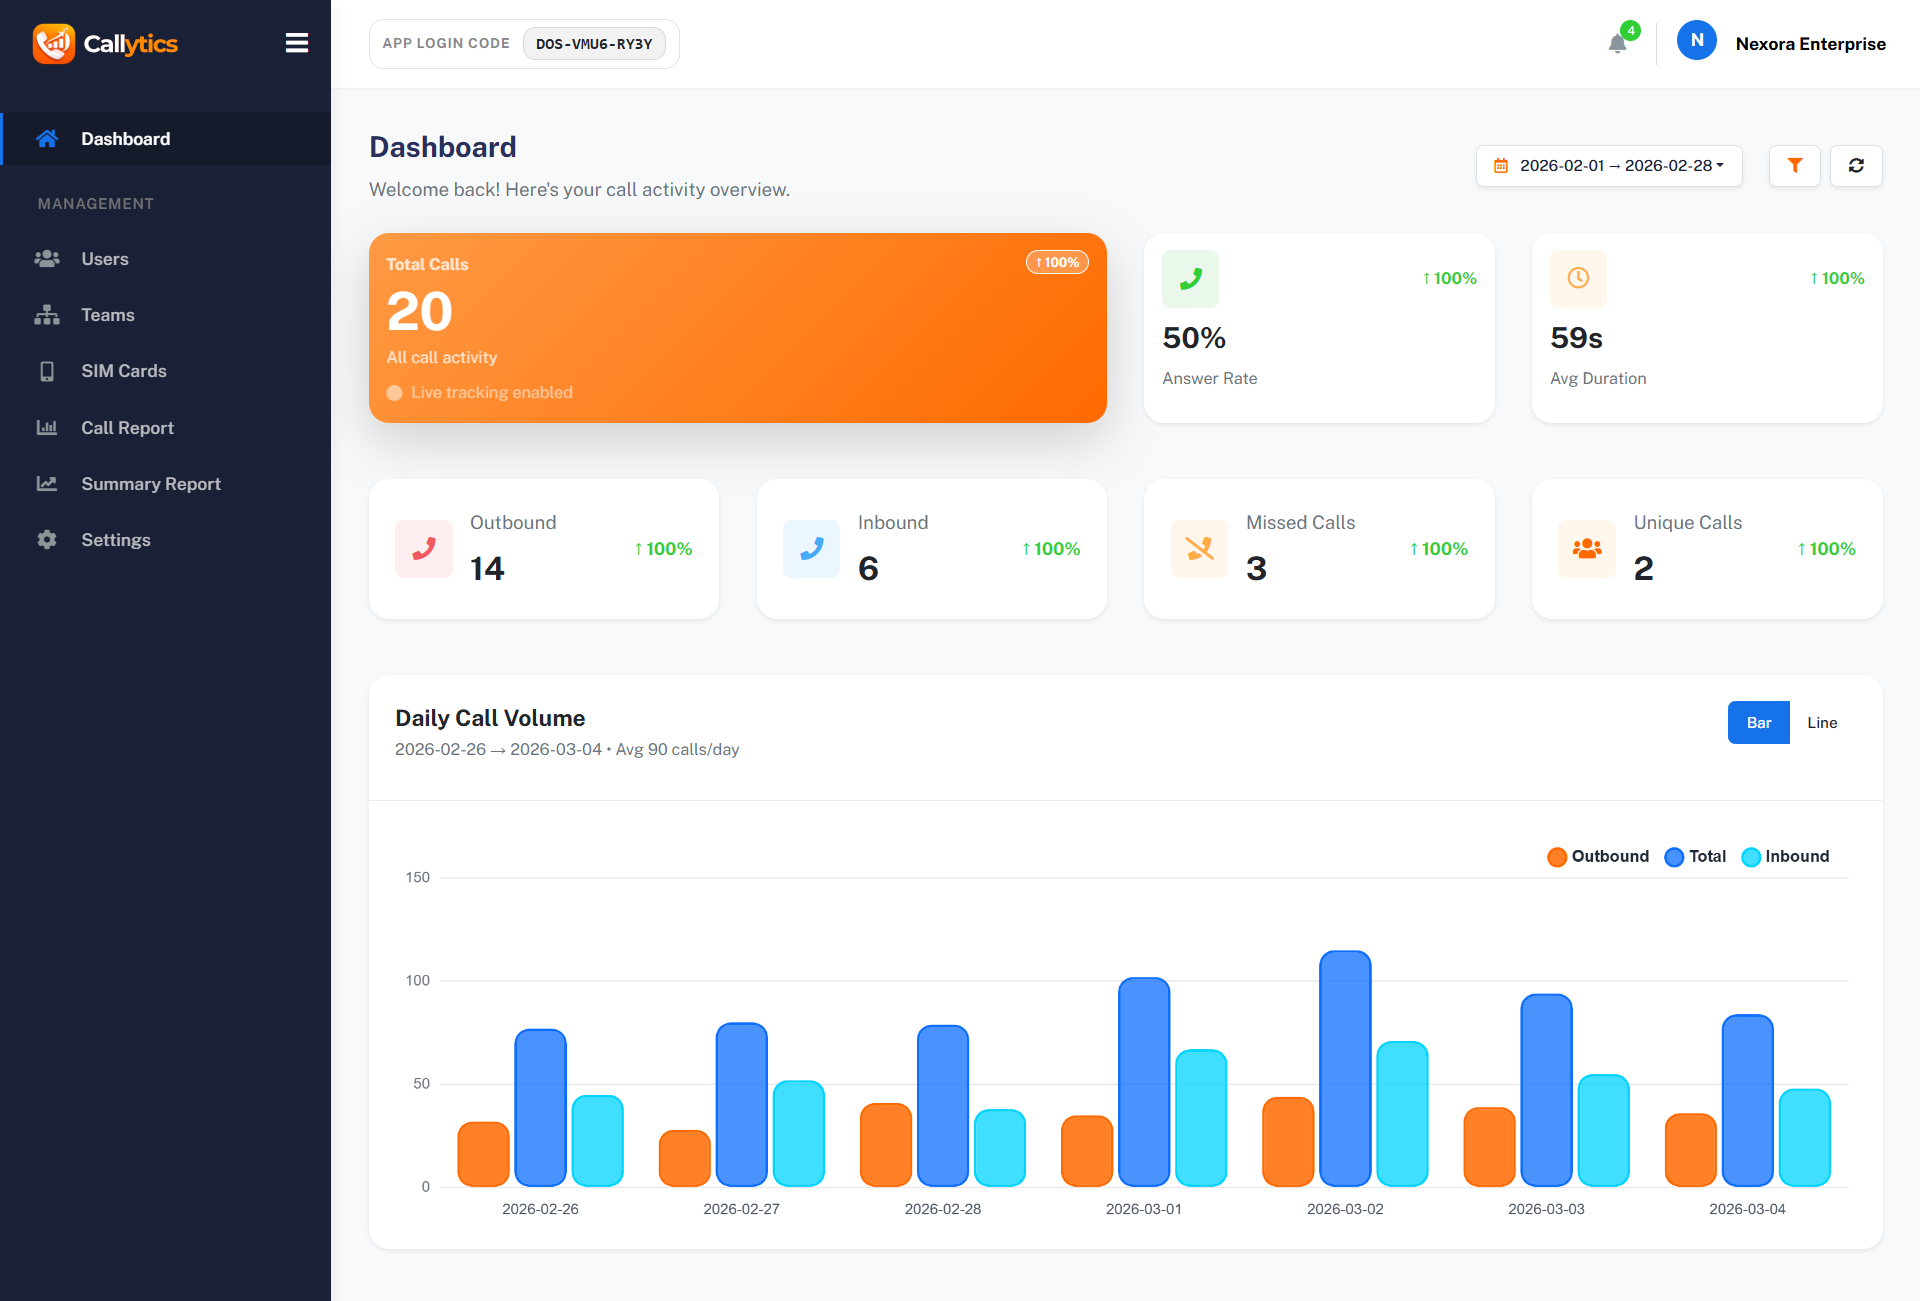
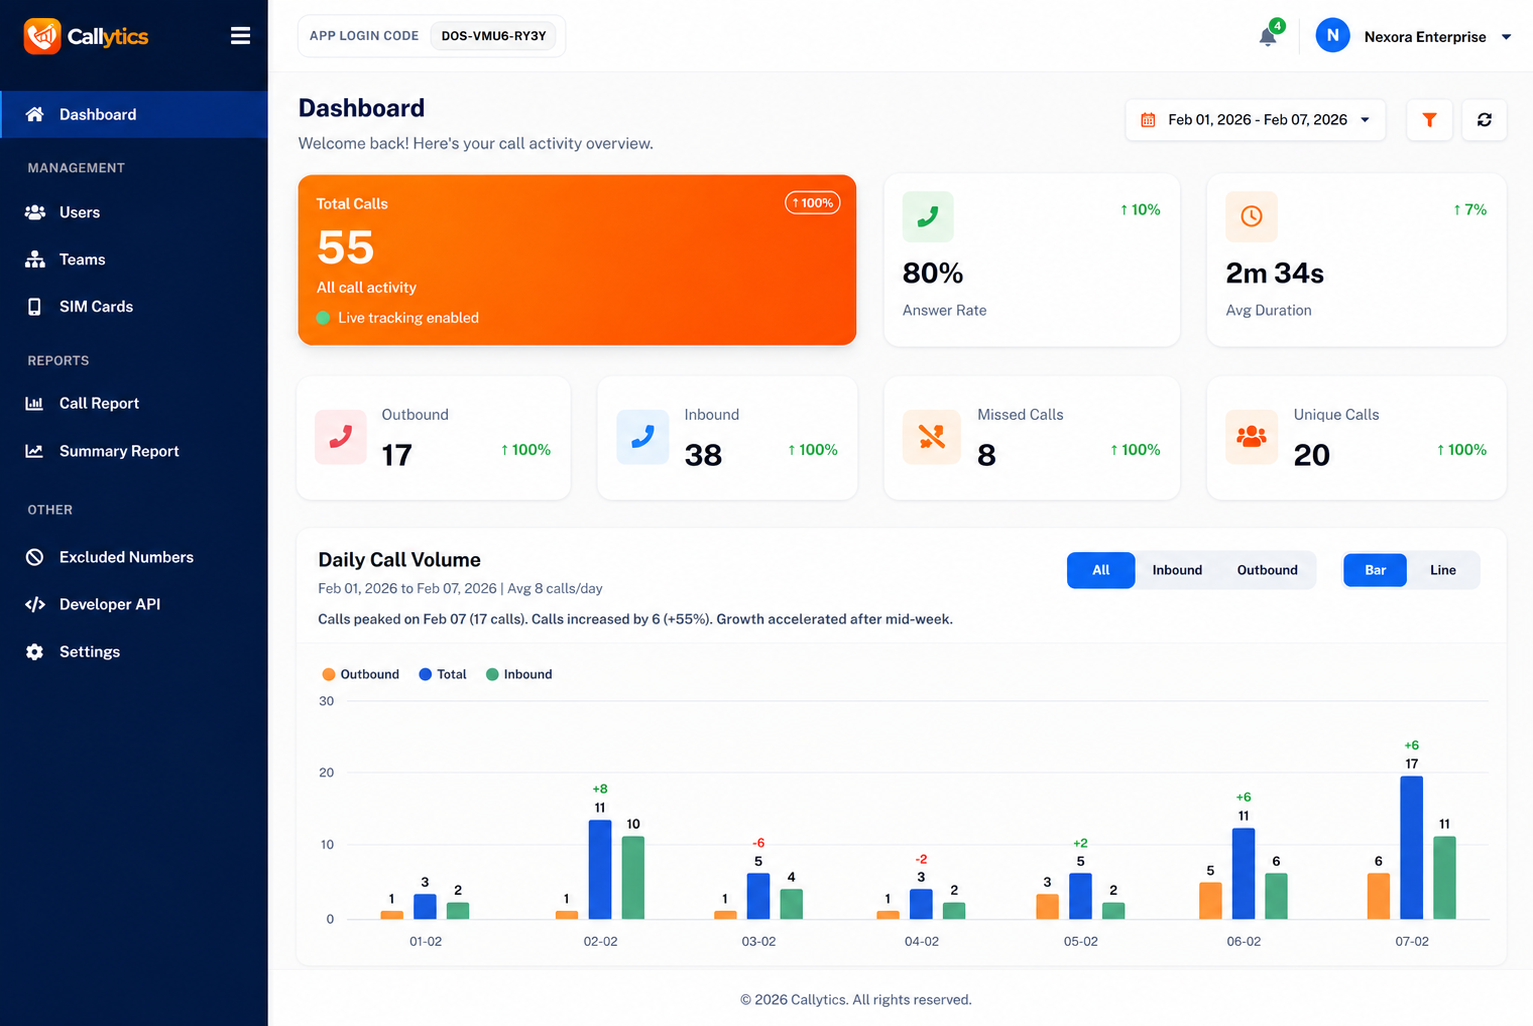
code

diff --git a/resources/js/pages/Features.vue b/resources/js/pages/Features.vue
@@ -398,51 +398,55 @@
     </section>
 
     <!-- Mobile App Section -->
-    <section class="py-24 relative overflow-hidden" id="mobile-app" role="region" aria-label="Mobile app" style="background: linear-gradient(180deg, #ffffff 0%, #fff8f3 30%, #fff1e6 60%, #fff8f3 90%, #ffffff 100%);">
-      <div class="absolute inset-0 overflow-hidden pointer-events-none" aria-hidden="true">
-        <div class="absolute top-20 left-10 w-72 h-72 rounded-full opacity-20 blur-3xl" style="background: #ff6b00;"></div>
-        <div class="absolute bottom-20 right-10 w-96 h-96 rounded-full opacity-10 blur-3xl" style="background: #ff8c33;"></div>
-      </div>
-      <div class="max-w-6xl mx-auto px-4 sm:px-6 lg:px-8 relative z-10">
-        <div class="text-center mb-16">
-          <h2 class="text-3xl md:text-4xl font-bold text-gray-900 mb-4">
+    <section class="py-24 relative overflow-hidden" id="mobile-app" role="region" aria-label="Mobile app" style="background: linear-gradient(180deg, #ffffff 0%, #fff8f3 26%, #fff1e6 58%, #fff8f3 88%, #ffffff 100%);">
+      <div class="max-w-7xl mx-auto px-4 sm:px-6 lg:px-8 relative z-10">
+        <div class="text-center mb-14 max-w-3xl mx-auto">
+          <h2 class="text-3xl md:text-4xl font-bold text-gray-900 mb-4 leading-tight">
             Manage Your Business Calls On the Go
           </h2>
-          <p class="text-xl text-gray-600 max-w-3xl mx-auto">
+          <p class="text-lg md:text-xl text-gray-600 leading-relaxed mx-auto">
             Stay connected to your call data from anywhere. The Callytics mobile app gives your team real-time visibility, instant notifications, and full dashboard access — right from your smartphone.
           </p>
         </div>
 
         <!-- Mobile App Showcase -->
-        <div class="flex flex-col lg:flex-row items-center gap-12 lg:gap-8 mb-10">
+        <div class="app-showcase-grid mb-14">
           
           <!-- Left Features -->
-          <div class="flex flex-col gap-8 flex-1 order-2 lg:order-1">
-            <div class="flex items-start gap-4 text-right lg:flex-row flex-row-reverse lg:flex-row-reverse">
-              <div>
-                <h3 class="text-lg font-bold text-gray-900 mb-1">Real-Time Notifications</h3>
-                <p class="text-sm text-gray-500">Get instant alerts for missed calls, answered calls, and agent activity — so you never miss a business-critical moment.</p>
-              </div>
+          <div class="app-feature-stack app-features-left">
+            <div class="app-feature-card">
               <div class="w-12 h-12 rounded-xl flex items-center justify-center flex-shrink-0 app-feature-icon">
-                <svg class="w-6 h-6 text-white" fill="none" stroke="currentColor" viewBox="0 0 24 24"><path stroke-linecap="round" stroke-linejoin="round" stroke-width="2" d="M15 17h5l-1.405-1.405A2.032 2.032 0 0118 14.158V11a6.002 6.002 0 00-4-5.659V5a2 2 0 10-4 0v.341C7.67 6.165 6 8.388 6 11v3.159c0 .538-.214 1.055-.595 1.436L4 17h5m6 0v1a3 3 0 11-6 0v-1m6 0H9" /></svg>
+                <svg class="w-6 h-6 text-white" fill="none" stroke="currentColor" viewBox="0 0 24 24" aria-hidden="true"><path stroke-linecap="round" stroke-linejoin="round" stroke-width="2" d="M15 17h5l-1.405-1.405A2.032 2.032 0 0118 14.158V11a6.002 6.002 0 00-4-5.659V5a2 2 0 10-4 0v.341C7.67 6.165 6 8.388 6 11v3.159c0 .538-.214 1.055-.595 1.436L4 17h5m6 0v1a3 3 0 11-6 0v-1m6 0H9" /></svg>
+              </div>
+              <div>
+                <h3 class="text-lg font-bold text-gray-900 mb-3">Real-Time Notifications</h3>
+                <ul class="app-feature-list">
+                  <li>Instant alerts for missed & answered calls</li>
+                  <li>Live agent activity tracking</li>
+                  <li>Never miss a business-critical moment</li>
+                </ul>
               </div>
             </div>
-            <div class="flex items-start gap-4 text-right lg:flex-row flex-row-reverse lg:flex-row-reverse">
-              <div>
-                <h3 class="text-lg font-bold text-gray-900 mb-1">Live Dashboard</h3>
-                <p class="text-sm text-gray-500">View live call stats, team performance, and key metrics directly from your mobile — anytime, anywhere.</p>
-              </div>
+            <div class="app-feature-card">
               <div class="w-12 h-12 rounded-xl flex items-center justify-center flex-shrink-0 app-feature-icon">
-                <svg class="w-6 h-6 text-white" fill="none" stroke="currentColor" viewBox="0 0 24 24"><path stroke-linecap="round" stroke-linejoin="round" stroke-width="2" d="M9 19v-6a2 2 0 00-2-2H5a2 2 0 00-2 2v6a2 2 0 002 2h2a2 2 0 002-2zm0 0V9a2 2 0 012-2h2a2 2 0 012 2v10m-6 0a2 2 0 002 2h2a2 2 0 002-2m0 0V5a2 2 0 012-2h2a2 2 0 012 2v14a2 2 0 01-2 2h-2a2 2 0 01-2-2z" /></svg>
+                <svg class="w-6 h-6 text-white" fill="none" stroke="currentColor" viewBox="0 0 24 24" aria-hidden="true"><path stroke-linecap="round" stroke-linejoin="round" stroke-width="2" d="M9 19v-6a2 2 0 00-2-2H5a2 2 0 00-2 2v6a2 2 0 002 2h2a2 2 0 002-2zm0 0V9a2 2 0 012-2h2a2 2 0 012 2v10m-6 0a2 2 0 002 2h2a2 2 0 002-2m0 0V5a2 2 0 012-2h2a2 2 0 012 2v14a2 2 0 01-2 2h-2a2 2 0 01-2-2z" /></svg>
+              </div>
+              <div>
+                <h3 class="text-lg font-bold text-gray-900 mb-3">Live Dashboard</h3>
+                <ul class="app-feature-list">
+                  <li>View live call stats & team performance</li>
+                  <li>Key metrics at a glance</li>
+                  <li>Available anytime, anywhere from mobile</li>
+                </ul>
               </div>
             </div>
           </div>
 
           <!-- Center Phone Screenshots -->
-          <div class="flex items-end justify-center gap-2 sm:gap-3 md:gap-4 flex-shrink-0 order-1 lg:order-2">
+          <div class="app-phone-row">
             <!-- Call Logs -->
             <div class="flex flex-col items-center group app-screen-card">
-              <div class="relative w-36 sm:w-40 md:w-44">
+              <div class="relative app-phone-side">
                 <img 
                   :src="'/mobile_app/call_logs.png'" 
                   alt="Callytics mobile app call logs screen"
@@ -450,12 +454,12 @@
                   loading="lazy"
                 />
               </div>
-              <span class="mt-3 text-xs font-semibold text-gray-500 uppercase tracking-wider">Call Logs</span>
+              <span class="app-phone-label text-gray-500">CALL LOGS</span>
             </div>
 
             <!-- Dashboard (Center - Larger) -->
-            <div class="flex flex-col items-center group app-screen-card -mt-4">
-              <div class="relative w-44 sm:w-48 md:w-56 app-center-phone">
+            <div class="flex flex-col items-center group app-screen-card">
+              <div class="relative app-phone-hero app-center-phone">
                 <div class="absolute -inset-4 rounded-[2.5rem] opacity-20 group-hover:opacity-40 transition-opacity duration-500 blur-2xl" style="background: linear-gradient(135deg, #ff6b00 0%, #ff8c33 100%);"></div>
                 <img 
                   :src="'/mobile_app/dashboard.png'" 
@@ -464,12 +468,12 @@
                   loading="lazy"
                 />
               </div>
-              <span class="mt-3 text-xs font-semibold text-orange-600 uppercase tracking-wider">Dashboard</span>
+              <span class="app-phone-label text-orange-600">DASHBOARD</span>
             </div>
 
             <!-- Analytics -->
             <div class="flex flex-col items-center group app-screen-card">
-              <div class="relative w-36 sm:w-40 md:w-44">
+              <div class="relative app-phone-side">
                 <img 
                   :src="'/mobile_app/analytics.png'" 
                   alt="Callytics mobile app analytics screen"
@@ -477,28 +481,36 @@
                   loading="lazy"
                 />
               </div>
-              <span class="mt-3 text-xs font-semibold text-gray-500 uppercase tracking-wider">Analytics</span>
+              <span class="app-phone-label text-gray-500">ANALYTICS</span>
             </div>
           </div>
 
           <!-- Right Features -->
-          <div class="flex flex-col gap-8 flex-1 order-3">
-            <div class="flex items-start gap-4">
+          <div class="app-feature-stack app-features-right">
+            <div class="app-feature-card">
               <div class="w-12 h-12 rounded-xl flex items-center justify-center flex-shrink-0 app-feature-icon">
-                <svg class="w-6 h-6 text-white" fill="none" stroke="currentColor" viewBox="0 0 24 24"><path stroke-linecap="round" stroke-linejoin="round" stroke-width="2" d="M9 12h6m-6 4h6m2 5H7a2 2 0 01-2-2V5a2 2 0 012-2h5.586a1 1 0 01.707.293l5.414 5.414a1 1 0 01.293.707V19a2 2 0 01-2 2z" /></svg>
+                <svg class="w-6 h-6 text-white" fill="none" stroke="currentColor" viewBox="0 0 24 24" aria-hidden="true"><path stroke-linecap="round" stroke-linejoin="round" stroke-width="2" d="M9 12h6m-6 4h6m2 5H7a2 2 0 01-2-2V5a2 2 0 012-2h5.586a1 1 0 01.707.293l5.414 5.414a1 1 0 01.293.707V19a2 2 0 01-2 2z" /></svg>
               </div>
               <div>
-                <h3 class="text-lg font-bold text-gray-900 mb-1">Instant Reports</h3>
-                <p class="text-sm text-gray-500">Access detailed call reports, export data, and share insights with your team — all from a single tap on your phone.</p>
+                <h3 class="text-lg font-bold text-gray-900 mb-3">Instant Reports</h3>
+                <ul class="app-feature-list">
+                  <li>Access detailed call reports instantly</li>
+                  <li>Export data with a single tap</li>
+                  <li>Easily share insights with your team</li>
+                </ul>
               </div>
             </div>
-            <div class="flex items-start gap-4">
+            <div class="app-feature-card">
               <div class="w-12 h-12 rounded-xl flex items-center justify-center flex-shrink-0 app-feature-icon">
-                <svg class="w-6 h-6 text-white" fill="none" stroke="currentColor" viewBox="0 0 24 24"><path stroke-linecap="round" stroke-linejoin="round" stroke-width="2" d="M12 15v2m-6 4h12a2 2 0 002-2v-6a2 2 0 00-2-2H6a2 2 0 00-2 2v6a2 2 0 002 2zm10-10V7a4 4 0 00-8 0v4h8z" /></svg>
+                <svg class="w-6 h-6 text-white" fill="none" stroke="currentColor" viewBox="0 0 24 24" aria-hidden="true"><path stroke-linecap="round" stroke-linejoin="round" stroke-width="2" d="M12 15v2m-6 4h12a2 2 0 002-2v-6a2 2 0 00-2-2H6a2 2 0 00-2 2v6a2 2 0 002 2zm10-10V7a4 4 0 00-8 0v4h8z" /></svg>
               </div>
               <div>
-                <h3 class="text-lg font-bold text-gray-900 mb-1">Secure Access</h3>
-                <p class="text-sm text-gray-500">Role-based access control with multi-factor authentication ensures your call data stays private and protected.</p>
+                <h3 class="text-lg font-bold text-gray-900 mb-3">Secure Access</h3>
+                <ul class="app-feature-list">
+                  <li>Role-based access control</li>
+                  <li>Multi-factor authentication built-in</li>
+                  <li>Your call data stays private & protected</li>
+                </ul>
               </div>
             </div>
           </div>
@@ -506,8 +518,8 @@
         </div>
 
         <!-- Download Button -->
-        <div class="text-center">
-          <p class="text-lg text-gray-600 mb-6 font-medium">Download the Callytics App — Available on Google Play. Start tracking your business calls from your mobile today.</p>
+        <div class="text-center pt-10 border-t border-orange-200/70">
+          <p class="text-lg md:text-xl text-gray-800 mb-6 font-bold max-w-3xl mx-auto">Download the Callytics App — Available on Google Play. Start tracking your business calls from your mobile today.</p>
           <a 
             href="#" 
             class="inline-flex items-center px-8 py-4 bg-black text-white rounded-xl hover:bg-gray-900 transition-all duration-300 hover:shadow-xl hover:scale-105"
@@ -722,6 +734,70 @@ const features = [
 }
 
 /* Mobile App Screenshot Cards */
+.app-showcase-grid {
+  display: grid;
+  grid-template-columns: minmax(0, 1fr);
+  gap: 2.5rem;
+  align-items: center;
+}
+
+.app-feature-stack {
+  display: grid;
+  gap: 1.75rem;
+}
+
+.app-feature-card {
+  min-height: 0;
+  display: flex;
+  align-items: flex-start;
+  gap: 1.15rem;
+  padding: 0.25rem 0;
+  text-align: left;
+  background: transparent;
+  border: 0;
+  border-radius: 0;
+  box-shadow: none;
+  backdrop-filter: none;
+}
+
+.app-feature-list {
+  display: grid;
+  gap: 0.5rem;
+  color: #4b5563;
+  font-size: 1.02rem;
+  line-height: 1.45;
+  list-style: disc;
+  padding-left: 1.2rem;
+}
+
+.app-feature-list li::marker {
+  color: #F97316;
+}
+
+.app-phone-row {
+  display: flex;
+  flex-direction: column;
+  align-items: center;
+  justify-content: center;
+  gap: 1.5rem;
+}
+
+.app-phone-side {
+  width: min(11rem, 72vw);
+}
+
+.app-phone-hero {
+  width: min(14rem, 78vw);
+}
+
+.app-phone-label {
+  margin-top: 0.9rem;
+  font-size: 0.72rem;
+  font-weight: 800;
+  line-height: 1;
+  letter-spacing: 0.18em;
+}
+
 .app-screen-card {
   transition: all 0.4s cubic-bezier(0.4, 0, 0.2, 1);
 }
@@ -755,6 +831,67 @@ const features = [
 
 .app-feature-icon:hover {
   box-shadow: 0 4px 14px rgba(255, 107, 0, 0.3), 0 2px 4px rgba(0, 0, 0, 0.08);
+}
+
+@media (min-width: 640px) {
+  .app-phone-row {
+    flex-direction: row;
+    align-items: flex-end;
+    gap: 0.75rem;
+  }
+
+  .app-phone-side {
+    width: 10rem;
+  }
+
+  .app-phone-hero {
+    width: 12rem;
+  }
+}
+
+@media (min-width: 768px) {
+  .app-showcase-grid {
+    grid-template-columns: minmax(15rem, 0.95fr) minmax(24rem, 1.1fr);
+    grid-template-areas:
+      "left phones"
+      "right phones";
+    gap: 1.75rem 2.5rem;
+  }
+
+  .app-features-left {
+    grid-area: left;
+    align-self: end;
+  }
+
+  .app-features-right {
+    grid-area: right;
+    align-self: start;
+  }
+
+  .app-phone-row {
+    grid-area: phones;
+    align-self: center;
+  }
+}
+
+@media (min-width: 1024px) {
+  .app-showcase-grid {
+    grid-template-columns: minmax(18rem, 1.1fr) minmax(29rem, auto) minmax(18rem, 1.1fr);
+    grid-template-areas: "left phones right";
+    gap: 2.75rem;
+  }
+
+  .app-feature-stack {
+    align-self: center;
+  }
+
+  .app-phone-side {
+    width: 11rem;
+  }
+
+  .app-phone-hero {
+    width: 14rem;
+  }
 }
 
 .hero-gradient {
@@ -1084,4 +1221,3 @@ const features = [
   opacity: 0;
 }
 </style>
-
